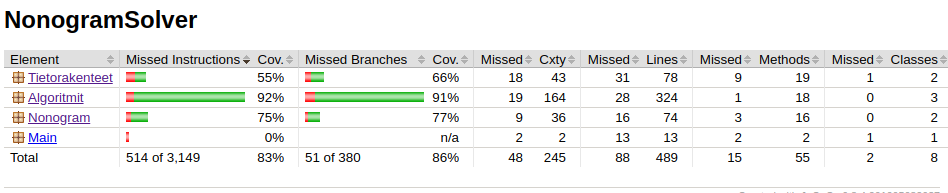
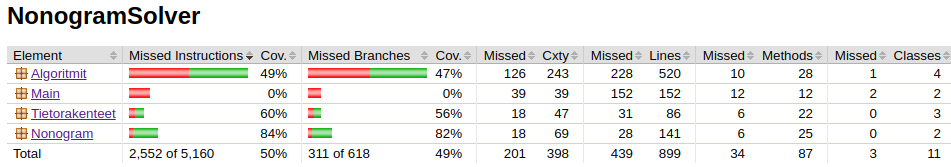
dokumentaatio korjaus commit

Changed region(s): [[0.0, 0.2395, 1.0, 1.0], [0.0, 0.0299, 0.2141, 0.1796], [0.9177, 0.8982, 0.9483, 0.9281]]

diff --git a/dokumentaatio/Toteutusdokumentti.md b/dokumentaatio/Toteutusdokumentti.md
@@ -1,0 +1,44 @@
+# Toteutus dokumentti
+
+Alkuperäinen ideani oli luoda muutama eri algoritmi nonogrammien ratkomiseen mutta loppujen lopuksi ajan tuhlaamisen koodin toimivuuteen saamiseksi ja liian monimutkaisten koodien jatkamiseen, jätti minulle vain yhden (permutaatio solverin) algoritmin joka ratkaisee nonogrammeja.
+
+## Aikajana
+
+1-3 viikot
+
+Alotin siis ohjelman suunnittelun ja kirjoittamisen. Sain ensimmäisen 3 viikon aikana toimimaan vain tällähetkelläkin koodista löytyvän simppelin ratkojan joka on erittäin hidas koska toimii rekursiivisesti. En saanut paljoa aikaan näillä viikoilla koska ensinnäkin en ollut koodannut mitään suurta projektia melkein puoleen vuoteen ja oli suuria ongelmia muutenkin testien toimivuuden ja pom tiedoston kanssa muutenkin.
+
+2-4 viikot
+
+aloitin rekursiivisen solverin yhteydessä myös suunnittelemaan omaa solveria logical_solver jossa käytin, silloin mielestäni hyvää ideaa jossa käytin alueen kartoittamiseen erittäin monimutkaista taulukkoa muotoa: ArrayList<Integer>[][][]
+
+Tässä ideana oli että ensimmäiset 2 taulukkoa täsmää nonogrammin kokoa eli esim 10X15 kokiset nonogrammit olisivat muotoa ArrayList<Integer>[10][15][2]. Kolmannessa taulukossa on siis vian 2 vaihtoehtoa jotka täsmäävät sitä että katsotaanko kenttää sarakkeista vai riveistä jolloinka katsoen kentässä kohtaa x ja y olisi siellä tiedossa [[{rivien saarimahdollisuudet}],[{sarakkeen saarimahdollisuudet}]]. Eli syvimmässä kohdissa tätä oli 2 Arraylistaa joissa tiedossa mahdolliset saaret kohdissa.
+
+Saaret olivat taas tiedossa siten että jossain tietyssä kohdassa voi olla vain tiettyjä saaria joten ne merkitään permutaation kaltaisesti kenttään siten että arraylistaan lisätään kaikki ne saarien indexit joita niissä kohdissa voisi olla. Saaria taas poistetaan sen mukaan jos esim jostain kohdasta löydetään pakollinen tyhäj niin sen viereiset saaret tarkistetaan ja katsotaan että onko haljenneet saaret enään mahdollisia olla siinä rivissä jne...
+
+Tässä kohtaa koodistani alkoi tulla jopa minulle hieman liian monimutkaista joten päätin alkaa luomaan permutaatiolla toimivaa solveria.
+
+5- viikot
+
+Otin selvää enemmän muista nonogram solvereista ja sain idean permutaatio solveriin. Aika alkoi loppua joten testit ja muu toiminnallisuus kuten visuaalinen käyttöliittymä jäi tekemättä.
+
+## Permutaatio solver
+
+Permutaatio solveri ratkoo siis nonogrammit helpommat rivit ja sarakkeet kerrallaan kunnes pääsee loppuun tai ei löydä enään mitään muutettavaa ja alkaa bruteforceamaan nonogrammia läpi kunnes löyttää mahdollisen ratkaisun.
+
+Kun permutaatio solverin koodauksessa menikin niin paljon aikaa niin mahdolliset nopeuttajat joita olisin voinut lisätä tähän aloritmiin jäivät vain yhteen. Suunnitelmissa oli siis muokata algoritmia ja verrata uutta saanutta aikaa vanhaan ja katsoa kuinka paljon parempi pieninkin lisäys nopeuttaisi tätä.
+
+<img src="https://github.com/LKonsta/Tiralabra2020-NonogramSolver/blob/master/dokumentaatio/nonogrammi_versiot.png" width="600">
+
+Nopeudet ovat millisekunneissa.
+
+Version 1 nonogrammi ratkoi rivi ja sarake kerrallaan kunnes ei ollut enään muutosta, eikä ottanut huomioon että kauanko rivillä tai sarakkeella kestäisi mahdollisesti ratkaista. Muutosta on esim suuresti jos verrataan 10 levyistä riviä jossa on yksi saari kokoa 6. tässä tapauksessa permutaatioita on vain: 
+[2222221111],[1222222111],[1122222211],[1112222221],[1111222222] eli listasta tulisi vain 5 pituinen.
+kun taas jos rivin pituus olisi 10 ja siinnä olisi kolme 1 kokoista saarta olisi vaihtoehtoja:
+[212121111],[212112111],[212111211],...,[111211212],[111121212] erittäin monta.
+
+Mitä versio 2 tekee siis on ennen ratkomista asettaa kaikille riveille ja sarakkeille arvon sen mukaan että kuinka kauan mahdollisesti kestää että kaikki permutaatiot ovat saaneet listattua. Jonka jälkeen ohjelma ratkaisee rivit ja sarakkeet pikkuhiljaa pienemmät listan pituuden tuottavat ensin ja siitä eteenpäin suurempia kohti.
+
+## Suunnitelmat
+
+Suunnitelimssa oli seuraavaksi version 3 parantaa bruteforcen nopeutta. Tämän olisi saavuttanut sillä että ennen bruteforcausta listaa kaikki sen hetkiset rivit ja sarakkeet permutaatio funktion läpi ja katsoo millä rivillä on mahdollisimman vähän, eli mahdollisimman pieni listaus eri permutaatioista. Jos siis aloitamme siitä rivistä jossa vähiten variaatiota ja täyttää nonorammia sen rivin puuttuvien eli (0) kohtien täyttämisestä, olisi brute force toiminut paremmin ja mahdollisesti myös ratkaissut puuttuvat 2 nonogrammia joita minun algoritmini ei pysty ratkaista.

diff --git a/dokumentaatio/Testausdokumentti.md b/dokumentaatio/Testausdokumentti.md
@@ -2,14 +2,19 @@
 
 ## Testaus
 
-Projektin testaus on jäänyt vähäsieksi viellä tässä vaiheessa.
+Projektin testaus on jäänyt vähäsieksi. Tähän syynä se että projektin eri toiminnallisuuksissa minulla kesti hieman liikaa aikaa saada toimimaan ja paljon jäi vielä lisäämättä, joten testaus olisi pitänyt laittaa isommalle prioriteetille mielummin kuin jättää viimeiseksi.
+
 Projektíssa on vielä tällä hetkellä vain koko ohjelman testejä. Yksikkö testit ovat siis vielä tekemättä.
+
+Projektia tehdessä sen olen oppinut että testausta ja yksikkötestausta kannattaa tehdä samalla kun lisää projektiin jotain toiminnallisuutta taikka uuden funktion, jotta tietää että se toimii aina. ja jos ei niin tietää missä kohtia ohjelman toiminnallisuus menee pieleen.
 
 ## Jacoco report
 
 <img src="https://github.com/LKonsta/Tiralabra2020-NonogramSolver/blob/master/dokumentaatio/jacoco_report.png" width="900">
 
+Jacoco reportista näkee että algoritmi osiossa projektia testaus olisi 49% mutta tämä ei täsmää sillä ei toimivaa osiota "Logical_solver" ei ole testattu sillä se ei toimi joten sitä on turha testata.
 
-
+<img src="https://github.com/LKonsta/Tiralabra2020-NonogramSolver/blob/master/dokumentaatio/jacoco_report_2.png" width="900">
+ 
 
 

diff --git a/dokumentaatio/Käyttöohjeet.md b/dokumentaatio/Käyttöohjeet.md
@@ -1,0 +1,20 @@
+# Käyttöohje
+
+Ohjelmassa ei ole minkään laista graafista käyttöliittymää vaan se toimii tekstipohjaisesti.
+
+## 1. Aloitus
+
+Kun aloitat ohjelman se kysyy kolmesta vaihtoehdosta mitä haluat tehdä
+
+1. uusi peli
+2. valmis pohja
+3. poistu
+
+uudesta pelista sinun pitää itse asettaa nonogrammi 2 stringin avulla, ja jos stringit on kirjoitettu oikeassa muodossa ohjelma ratkaisee sen nonogrammin.
+
+valmis peli kohdassa sinulla on vaihtoehtona 11 nonogrammia joita ohjelmassa on valmiiksi kirjoitettu. (näistä 3 on "mahdottomia" ratkaista tällähetkellä johtuen liiallisesta bruteforcen tarpeesta). 
+mahdottomia ovat (omena, mustekala ja testi1)
+
+poistu peli valinnasta ohjelma pysähtyy.
+
+ohjelma myös kysyy haluatko nähdä progression ratkomiseen jossa näkee että missäkin vaiheessa ohjelma on nonogrammin ratkomista.
